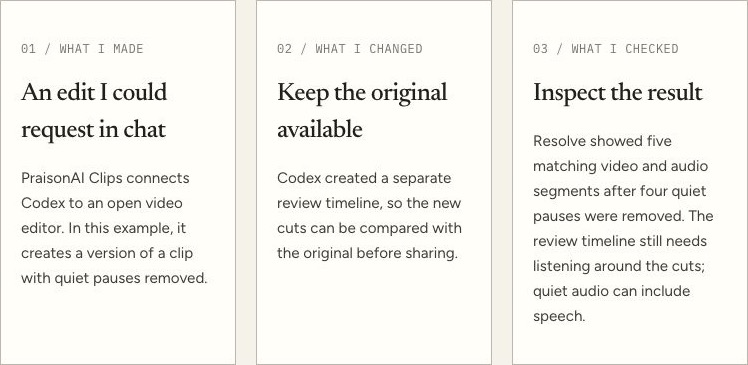
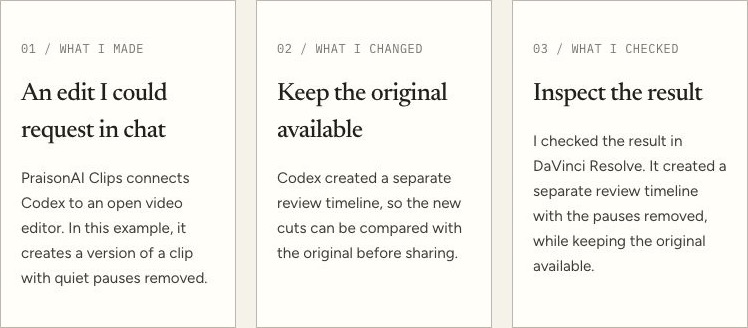
Simplify checked result summary

diff --git a/docs/built-with-codex.md b/docs/built-with-codex.md
@@ -18,7 +18,7 @@ Codex created a separate review timeline, so the new cuts can be compared with t
 <div markdown>
 <span class="step">03 / WHAT I CHECKED</span>
 ### Inspect the result
-Resolve showed five matching video and audio segments after four quiet pauses were removed. The review timeline still needs listening around the cuts; quiet audio can include speech.
+I checked the result in DaVinci Resolve. It created a separate review timeline with the pauses removed, while keeping the original available.
 </div>
 </div>
 
